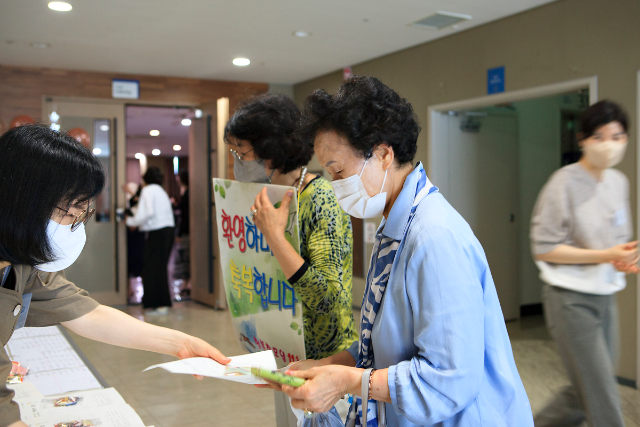
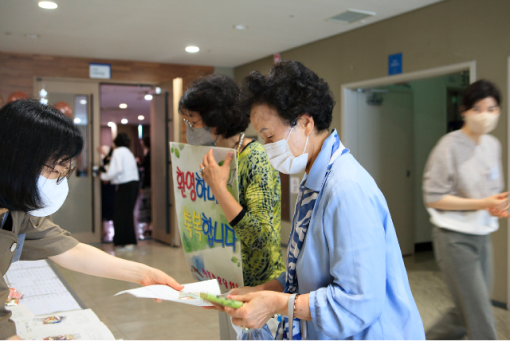
wg1~6_이미지 크기변경
- 우리갤러리 슬라이더 이미지 크기 변경
- 이미지 밑 공간 여백 -> bgc 변경

diff --git a/last/index.html b/last/index.html
@@ -629,7 +629,7 @@
                         <div class="gallery_box">
                             <a href="#">
                                 <img
-                                    src="./images/woorigallery/wg3.jpg"
+                                    src="./images/woorigallery/wg3.png"
                                     alt=""
                                 />
                             </a>
@@ -637,7 +637,7 @@
                         <div class="gallery_box">
                             <a href="#">
                                 <img
-                                    src="./images/woorigallery/wg4.jpg"
+                                    src="./images/woorigallery/wg4.png"
                                     alt=""
                                 />
                             </a>
@@ -645,7 +645,7 @@
                         <div class="gallery_box">
                             <a href="#">
                                 <img
-                                    src="./images/woorigallery/wg5.jpg"
+                                    src="./images/woorigallery/wg5.png"
                                     alt=""
                                 />
                             </a>
@@ -653,7 +653,7 @@
                         <div class="gallery_box">
                             <a href="#">
                                 <img
-                                    src="./images/woorigallery/wg6.jpg"
+                                    src="./images/woorigallery/wg6.png"
                                     alt=""
                                 />
                             </a>

diff --git a/last/style.css b/last/style.css
@@ -520,17 +520,16 @@ a.all_tab_m {
 
 
 /* ct4 갤러리 컨텐츠  */
-
-.gallery_box img {
-    background: rgba(255, 255, 255, 0.29);
-    box-shadow: 0px 4px 5px rgba(0, 0, 0, 0.16);
-    border: 1px solid #000;
+.ct4 .gallery_box img {
+    max-width: 85%;
+    height: 290px;
 }
 .gallery_all .slick-list {
     overflow: visible;
 }
+
 /* .gallery_box.slick-slide {
-    margin: 0 30px;
+    margin: 0 1.56vw;
 } */
 /* ct5 게시판 컨텐츠  */
 .ct5 .inner {

diff --git a/last/script.js b/last/script.js
@@ -17,10 +17,10 @@ $(document).ready(function () {
     });
     $(".gallery_all").slick({
         slidesToShow: 3,
-        autoplay: true,
+        //autoplay: true,
         autoplaySpeed: 1500,
         centerMode: true,
-        centerPadding: "100px",
+        centerPadding: "12.63vw",
         infinite: true,
         prevArrow: $(".gallery_prev"),
         nextArrow: $(".gallery_next"),

diff --git a/last/default.css b/last/default.css
@@ -150,13 +150,11 @@ a.all:hover, a.all_tab_m:hover {
 
 /* ct4 갤러리 컨텐츠  */
 .gallery_box img {
-    background: rgba(255, 255, 255, 0.29);
+    background-color: rgba(23, 23, 23, 0.5);
     box-shadow: 0px 4px 5px rgba(0, 0, 0, 0.16);
-
 }
 .slick-current.gallery_box img {
     box-shadow: 0px 11px 11px 2px rgba(23, 23, 23, 0.5);
-
 }
 
 
